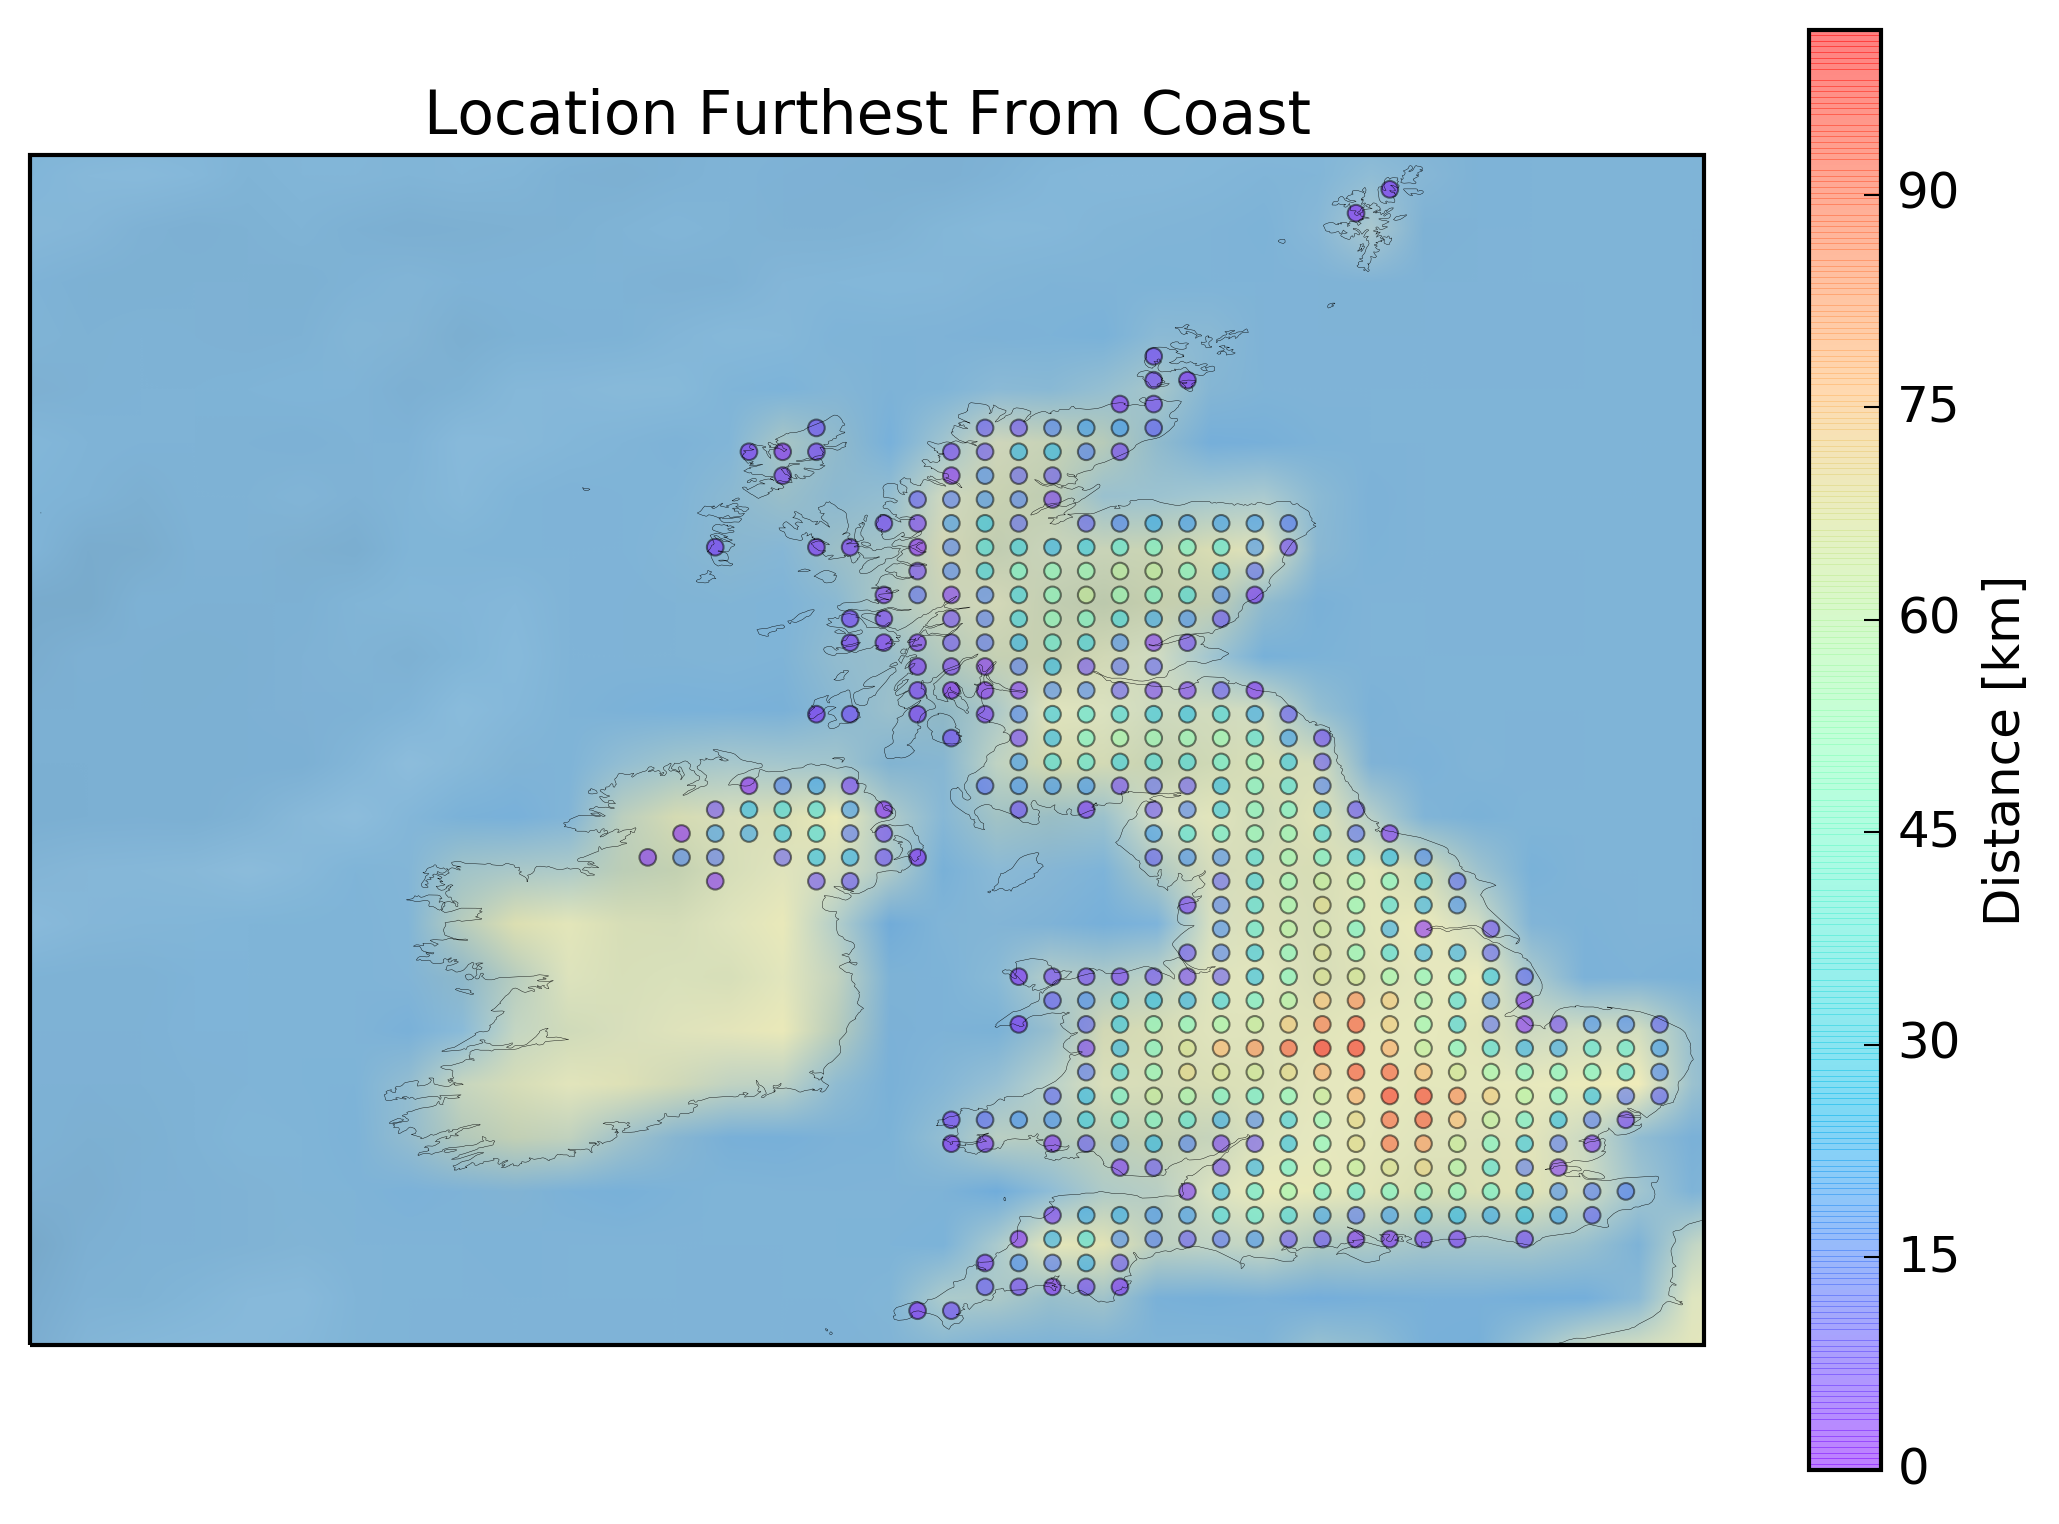
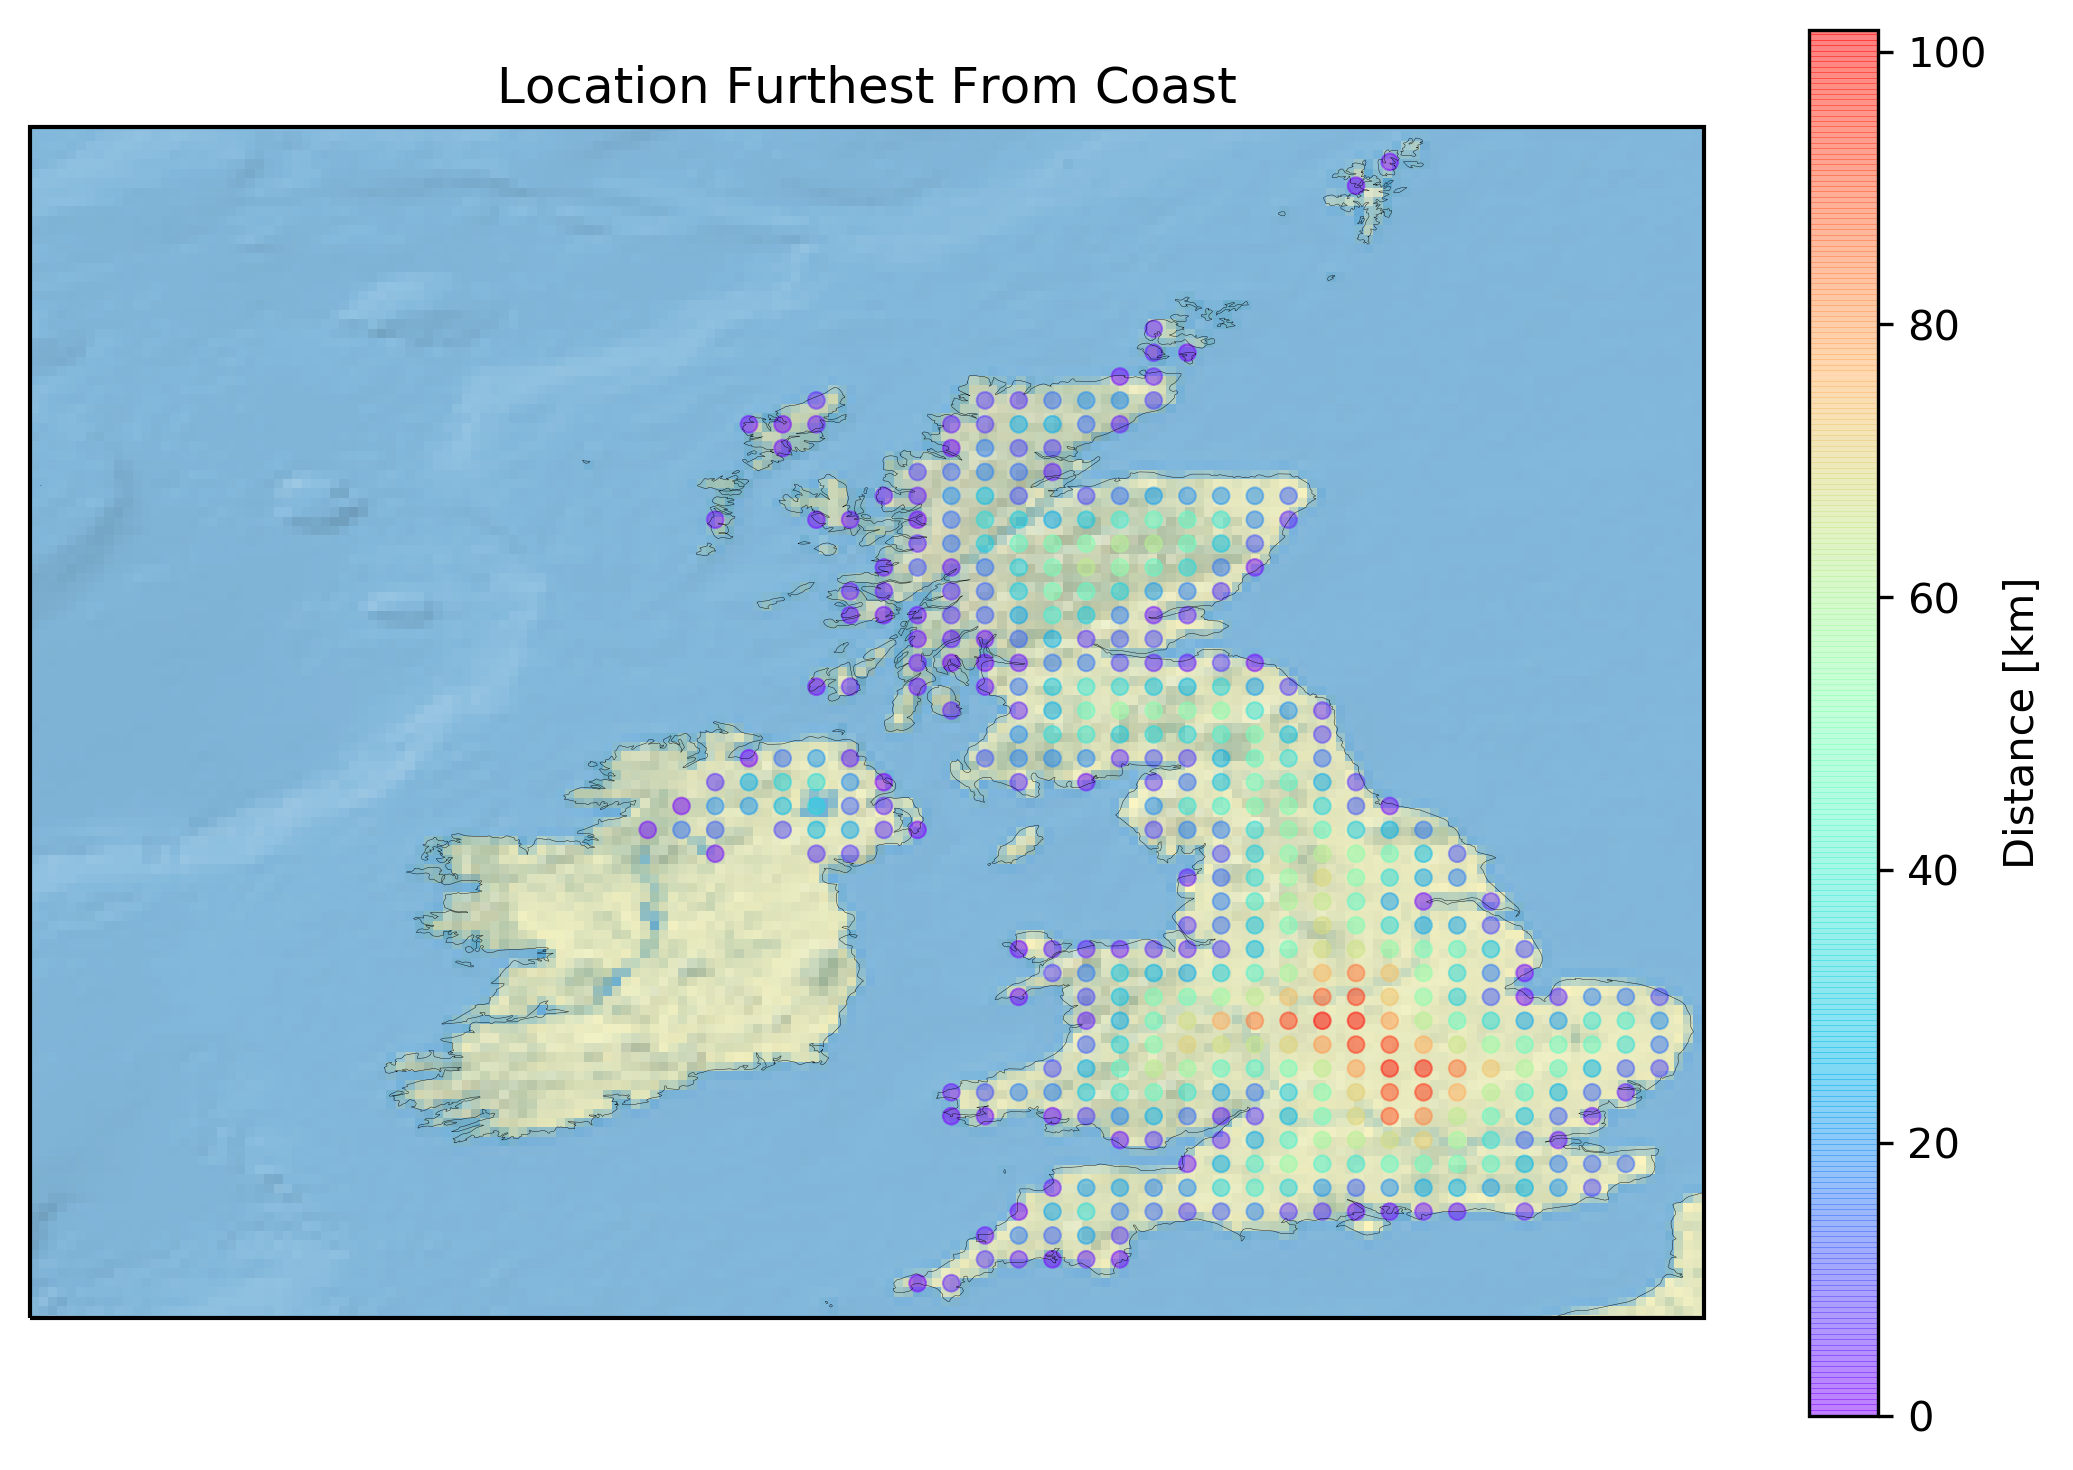
ported to Python 3; corrected module import order

Changed region(s): [[0.0, 0.0306, 0.8392, 0.9184], [0.8703, 0.0, 0.9947, 0.9796]]

diff --git a/run.py b/run.py
@@ -1,20 +1,36 @@
-# -*- coding: utf-8 -*-
-
 def run(dirOut = "FLFFCoutput", country = "United Kingdom", steps = 50):
-    # Import modules ...
-    import cartopy
-    import cartopy.crs
-    import cartopy.io
-    import cartopy.io.shapereader
-    import matplotlib
-    # NOTE: http://matplotlib.org/faq/howto_faq.html#matplotlib-in-a-web-application-server
-    matplotlib.use("Agg")
-    import matplotlib.pyplot
-    import numpy
+    # Import standard modules ...
     import os
-    import pyguymer
-    import shapely
-    import shapely.geometry
+
+    # Import special modules ...
+    try:
+        import cartopy
+        import cartopy.crs
+        import cartopy.io
+        import cartopy.io.shapereader
+    except:
+        raise Exception("run \"pip install --user cartopy\"")
+    try:
+        import matplotlib
+        matplotlib.use("Agg")                                                   # NOTE: http://matplotlib.org/faq/howto_faq.html#matplotlib-in-a-web-application-server
+        import matplotlib.pyplot
+    except:
+        raise Exception("run \"pip install --user matplotlib\"")
+    try:
+        import numpy
+    except:
+        raise Exception("run \"pip install --user numpy\"")
+    try:
+        import shapely
+        import shapely.geometry
+    except:
+        raise Exception("run \"pip install --user shapely\"")
+
+    # Import my modules ...
+    try:
+        import pyguymer3
+    except:
+        raise Exception("you need to have the Python module from https://github.com/Guymer/PyGuymer3 located somewhere in your $PYTHONPATH")
 
     # Make output directory ...
     if not os.path.exists(dirOut):
@@ -35,13 +51,10 @@ def run(dirOut = "FLFFCoutput", country = "United Kingdom", steps = 50):
 
         # Find extent of the country ...
         lon_min, lat_min, lon_max, lat_max = record.bounds                      # [deg], [deg], [deg], [deg]
-        print "The bounding box of {0:s} is from ({1:.2f},{2:.2f}) to ({3:.2f},{4:.2f}).".format(record.attributes["NAME"], lon_min, lat_min, lon_max, lat_max)
+        print("The bounding box of {:s} is from ({:.2f},{:.2f}) to ({:.2f},{:.2f}).".format(record.attributes["NAME"], lon_min, lat_min, lon_max, lat_max))
 
         # Create plot and make it pretty ...
-        fig = matplotlib.pyplot.figure(
-            figsize = (9, 6),
-                dpi = 300
-        )
+        fg = matplotlib.pyplot.figure(figsize = (9, 6), dpi = 300)
         ax = matplotlib.pyplot.axes(projection = cartopy.crs.PlateCarree())
         ax.set_extent(
             [
@@ -51,12 +64,8 @@ def run(dirOut = "FLFFCoutput", country = "United Kingdom", steps = 50):
                 lat_max + 0.1
             ]
         )
-        pyguymer.add_map_background(ax, resolution = "large4096px")
-        ax.coastlines(
-            resolution = "10m",
-            color = "black",
-            linewidth = 0.1
-        )
+        pyguymer3.add_map_background(ax, resolution = "large4096px")
+        ax.coastlines(resolution = "10m", color = "black", linewidth = 0.1)
 
         # Make longitude and latitude grid ...
         xcoords = numpy.linspace(lon_min, lon_max, num = steps)                 # [deg]
@@ -68,11 +77,11 @@ def run(dirOut = "FLFFCoutput", country = "United Kingdom", steps = 50):
         zpoints = []                                                            # [m]
 
         # Loop over longitudes ...
-        for ix in xrange(xcoords.size):
-            print "Calculating slice {0:d} of {1:d} ...".format(ix + 1, xcoords.size)
+        for ix in range(xcoords.size):
+            print("Calculating slice {:d} of {:d} ...".format(ix + 1, xcoords.size))
 
             # Loop over latitudes ...
-            for iy in xrange(ycoords.size):
+            for iy in range(ycoords.size):
                 # Skip this point if it is not within the geometry ...
                 if not record.geometry.contains(shapely.geometry.Point(xcoords[ix], ycoords[iy])):
                     continue
@@ -87,7 +96,7 @@ def run(dirOut = "FLFFCoutput", country = "United Kingdom", steps = 50):
                     # Loop over coordinates ...
                     for coord in boundary.coords:
                         # Find distance between points ...
-                        zpoint2, alpha1, alpha2 = pyguymer.calc_dist_between_two_locs(
+                        zpoint2, alpha1, alpha2 = pyguymer3.calc_dist_between_two_locs(
                             lon1_deg = xcoords[ix],
                             lat1_deg = ycoords[iy],
                             lon2_deg = coord[0],
@@ -103,7 +112,7 @@ def run(dirOut = "FLFFCoutput", country = "United Kingdom", steps = 50):
                 ypoints.append(ycoords[iy])                                     # [deg]
                 zpoints.append(zpoint1 / 1000.0)                                # [km]
 
-        print "The furthest you can get from the coast is ~{0:.1f} km.".format(max(zpoints))
+        print("The furthest you can get from the coast is ~{:.1f} km.".format(max(zpoints)))
 
         # Plot points ...
         # NOTE: Default value of the optional keyword argument "s" (as of
@@ -131,11 +140,12 @@ def run(dirOut = "FLFFCoutput", country = "United Kingdom", steps = 50):
         cb.set_label("Distance [km]")
 
         # Save map as PNG ...
-        matplotlib.pyplot.title("Location Furthest From Coast")
-        matplotlib.pyplot.savefig(
-            os.path.join(dirOut, "{0:s}.png".format(country)),
+        ax.set_title("Location Furthest From Coast")
+        fg.savefig(
+            os.path.join(dirOut, "{:s}.png".format(country)),
             bbox_inches = "tight",
                     dpi = 300,
              pad_inches = 0.1
         )
+        pyguymer3.optipng(os.path.join(dirOut, "{:s}.png".format(country)))
         matplotlib.pyplot.close("all")

diff --git a/__init__.py b/__init__.py
@@ -1,17 +1,17 @@
-# -*- coding: utf-8 -*-
-
 """
 Find Location Furthest From Coast (FLFFC)
 
-This module contains all the functions required to calculate the location that
-is the furthest away from the coast in a particular country. It also contains a
-wrapper function to perform the job for you.
+This Python 3.x module contains all the functions required to calculate the
+location that is the furthest away from the coast in a particular country. It
+also contains a wrapper function to perform the job for you.
 """
 
-# Ensure that this module is only imported by Python 2.x ...
+# Import standard modules ...
 import sys
-if sys.version_info.major != 2:
-    raise Exception("the Python module \"flffc\" must only be used with Python 2.x")
 
-# Load sub-functions ...
+# Import sub-functions ...
 from .run import run
+
+# Ensure that this module is only imported by Python 3.x ...
+if sys.version_info.major != 3:
+    raise Exception("the Python module \"flffc\" must only be used with Python 3.x")

diff --git a/README.md b/README.md
@@ -1,6 +1,6 @@
 # Find Location Furthest From Coast (FLFFC)
 
-This module contains all the functions required to calculate the location that is the furthest away from the coast in a particular country. It also contains a wrapper function to perform the job for you and save the answer as an image.
+This Python 3.x module contains all the functions required to calculate the location that is the furthest away from the coast in a particular country. It also contains a wrapper function to perform the job for you and save the answer as an image.
 
 ## Usage
 
@@ -15,7 +15,7 @@ If `country` is not specified it defaults to "United Kingdom". If `steps` is not
 
 ## Example Output
 
-The last line of the output from FLFFC will tell you how far you can (roughly) get from the coast in your chosen country. For the United Kingdom (with 50 steps) the line is "The furthest you can get from the coast is ~101.6 km". FLFFC will also create a PNG in your current directory named after your chosen country showing where that location is. Below is the result for the United Kingdom.
+The last line of the output from FLFFC will tell you how far you can (roughly) get from the coast in your chosen country. For the United Kingdom (with 50 steps) the line is "The furthest you can get from the coast is ~101.6 km". FLFFC will also create a PNG in `dirOut` named after your chosen country showing where that location is. Below is the result for the United Kingdom (with 50 steps).
 
 ![FLFFC output for the United Kingdom](UnitedKingdom.png)
 
@@ -26,7 +26,7 @@ FLFFC requires the following Python modules to be installed and available in you
 * [cartopy](https://pypi.org/project/Cartopy)
 * [matplotlib](https://pypi.org/project/matplotlib)
 * [numpy](https://pypi.org/project/numpy)
-* [pyguymer](https://github.com/Guymer/PyGuymer)
+* [pyguymer3](https://github.com/Guymer/PyGuymer3)
 * [shapely](https://pypi.org/project/Shapely)
 
 FLFFC uses some [Natural Earth](http://www.naturalearthdata.com/) resources via the [Cartopy](http://scitools.org.uk/cartopy/) module. If they do not exist on your system then Cartopy will download them for you in the background. Consequently, a working internet connection may be required the first time you run FLFFC.
